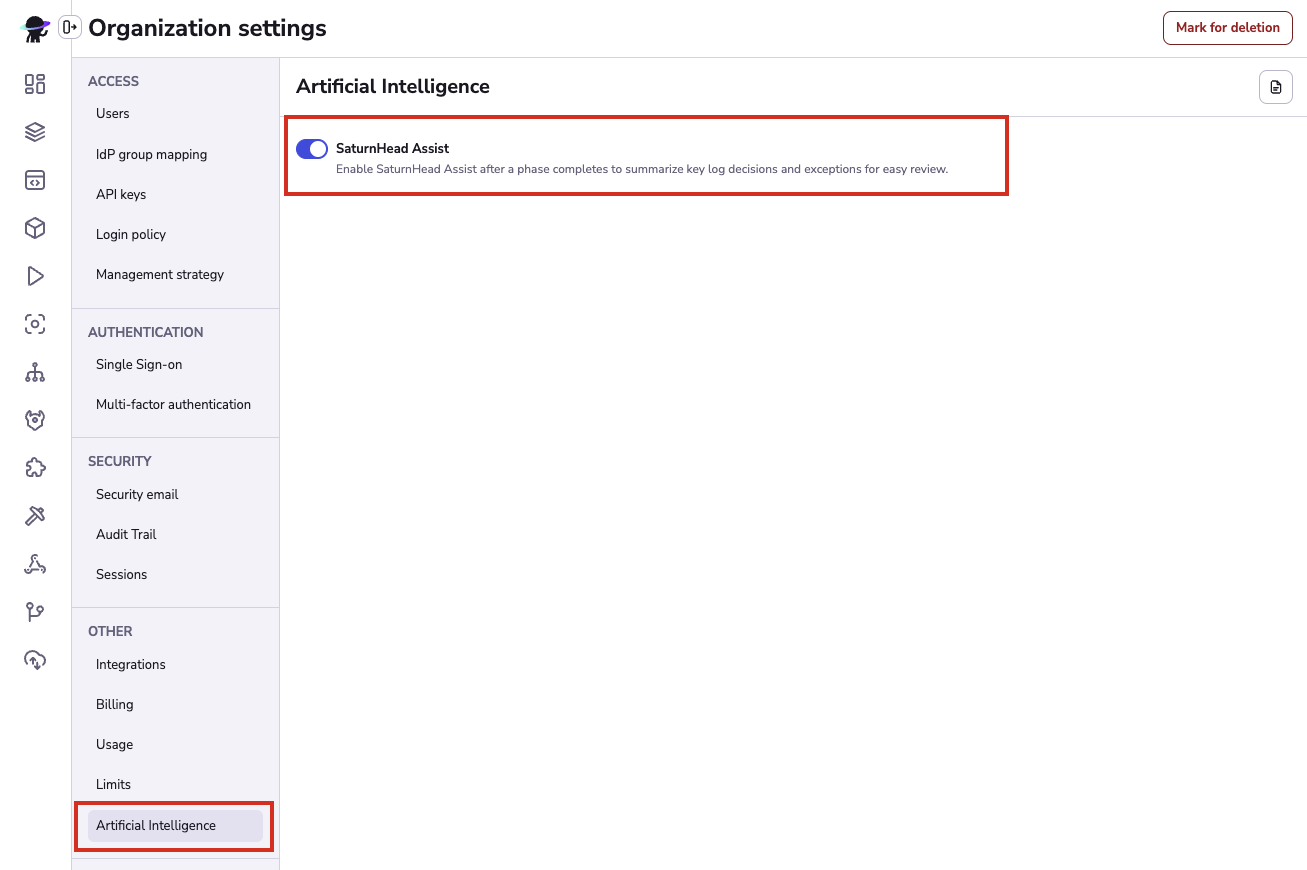
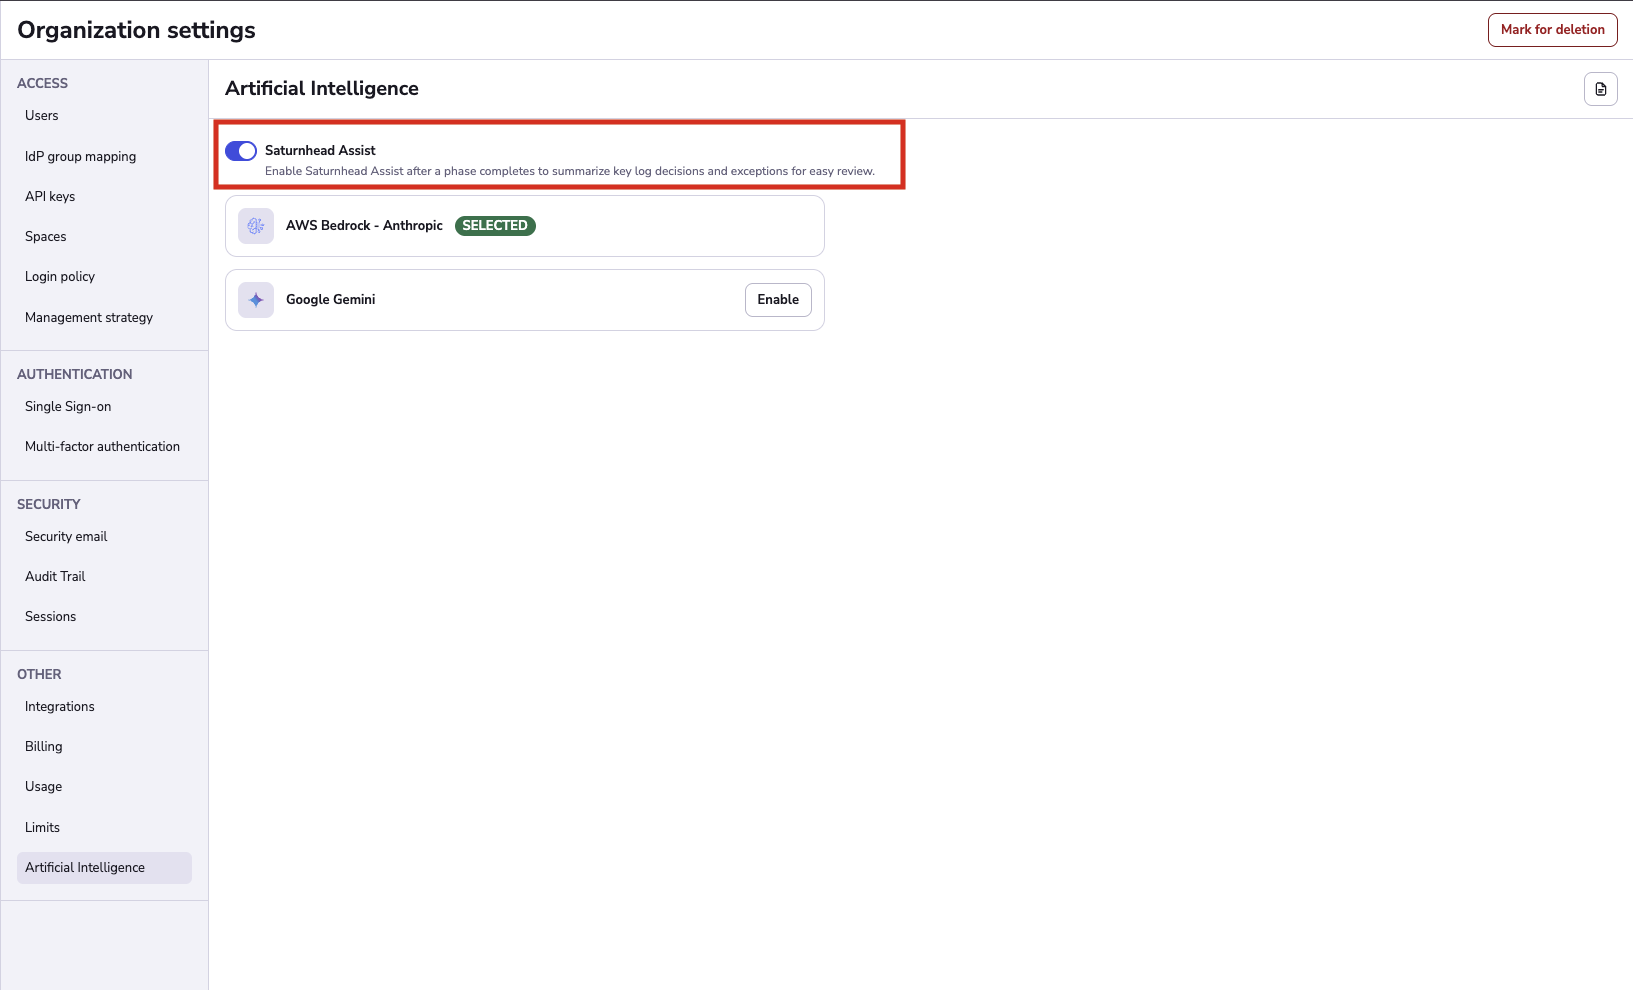
feat: include llm selector docs

diff --git a/docs/concepts/run/ai.md b/docs/concepts/run/ai.md
@@ -10,13 +10,15 @@ Spacelift now provides a way to harvest the power of AI to summarize failed runs
 !!! info
     This feature is only available to Enterprise plan. Please check out our [pricing page](https://spacelift.io/pricing) for more information.
 
-Saturnhead features have to be enabled by an admin user. Admins can locate the settings screen in `Organization settings > Artificial Intelligence`. When enabling the Saturnhead Assist features for the first time, you'll be asked to accept the Terms and Conditions. Once accepted, all the users with write access to runs will be able to ask for assistance on failed runs.
+Saturnhead features have to be enabled by an admin user. Admins can locate the settings screen in `Organization settings > Artificial Intelligence`. When enabling the Saturnhead Assist features for the first time, you'll be asked to accept the Terms and Conditions. Once accepted, all the users with read access to runs will be able to ask for assistance on failed runs.
 
 ![](../../assets/screenshots/run/settings-ai-assist.png)
 
+Furthermore, admins can select the LLM model that will be used to provide assistance. Play around with different models to see which one works best for your organization.
+
 ## AI empowered run summaries
 
-After enabling the feature, the users **with write** access to the runs will be able to summarize failed executions.
+After enabling the feature, the users with read access to the runs will be able to summarize failed executions.
 
 The results of a summary change on each case due to the LLM being non-deterministic, but they generally provide the following information:
 
